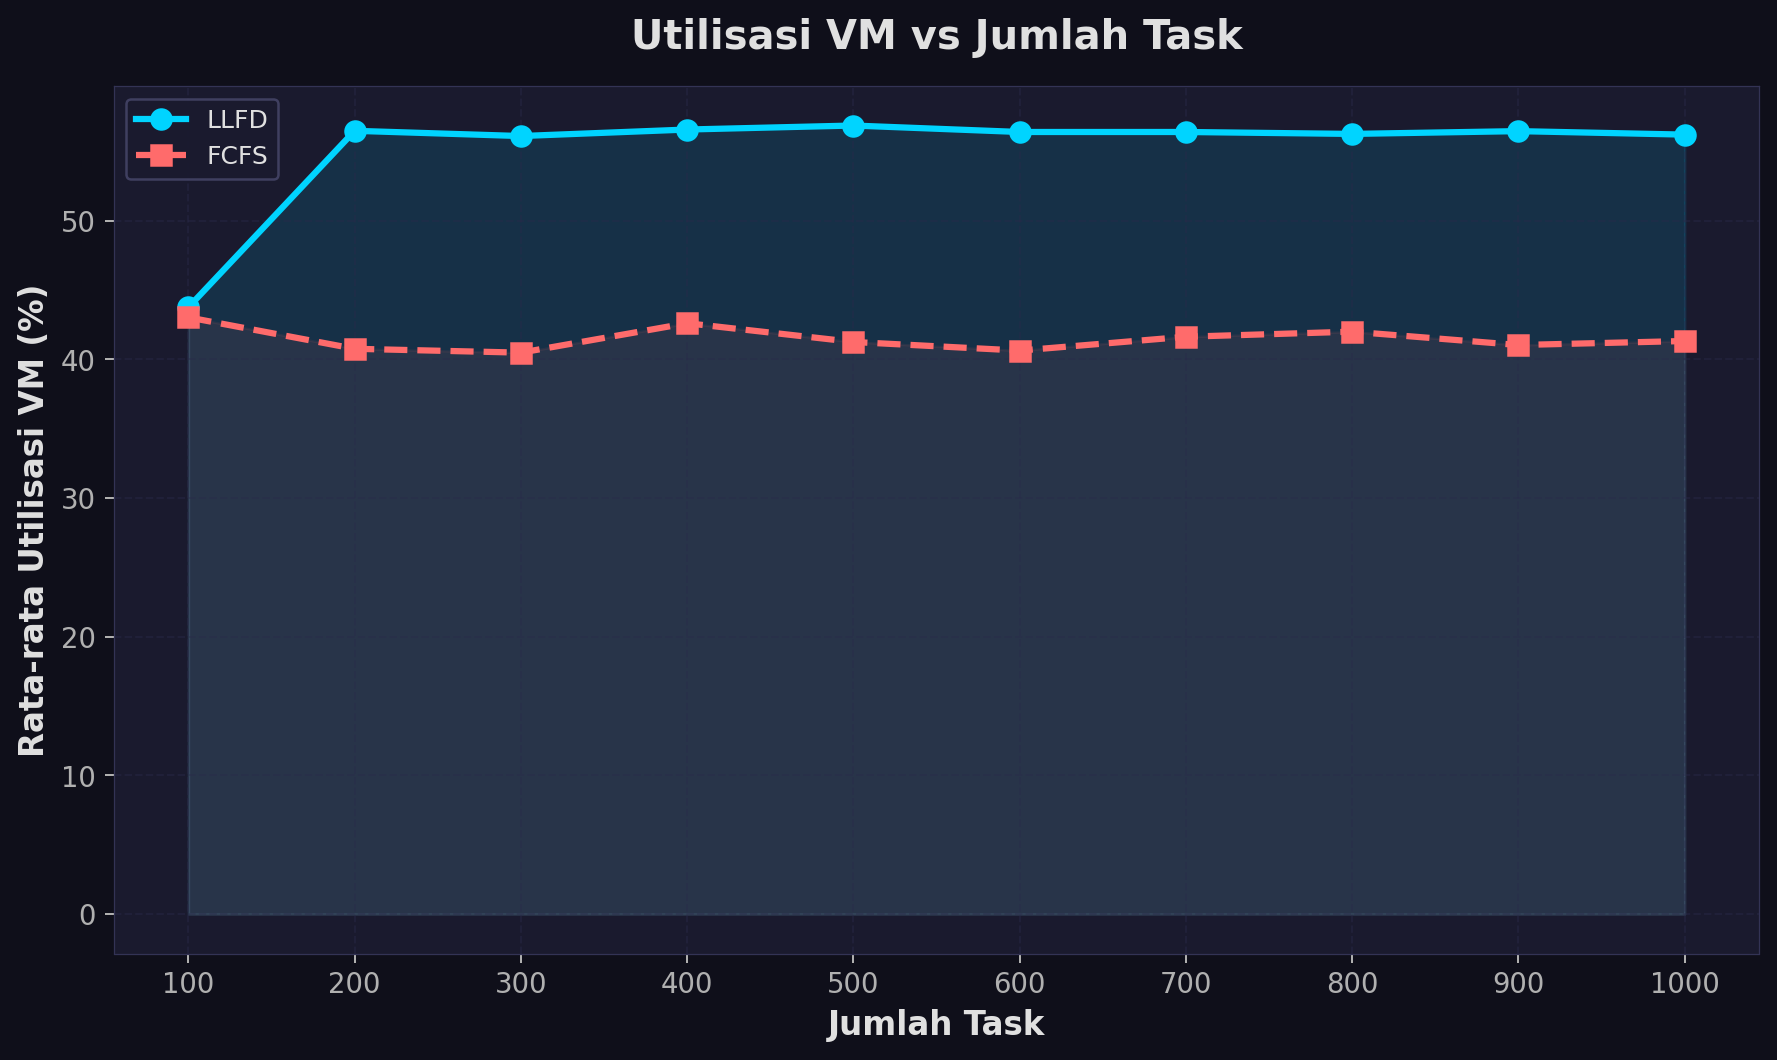
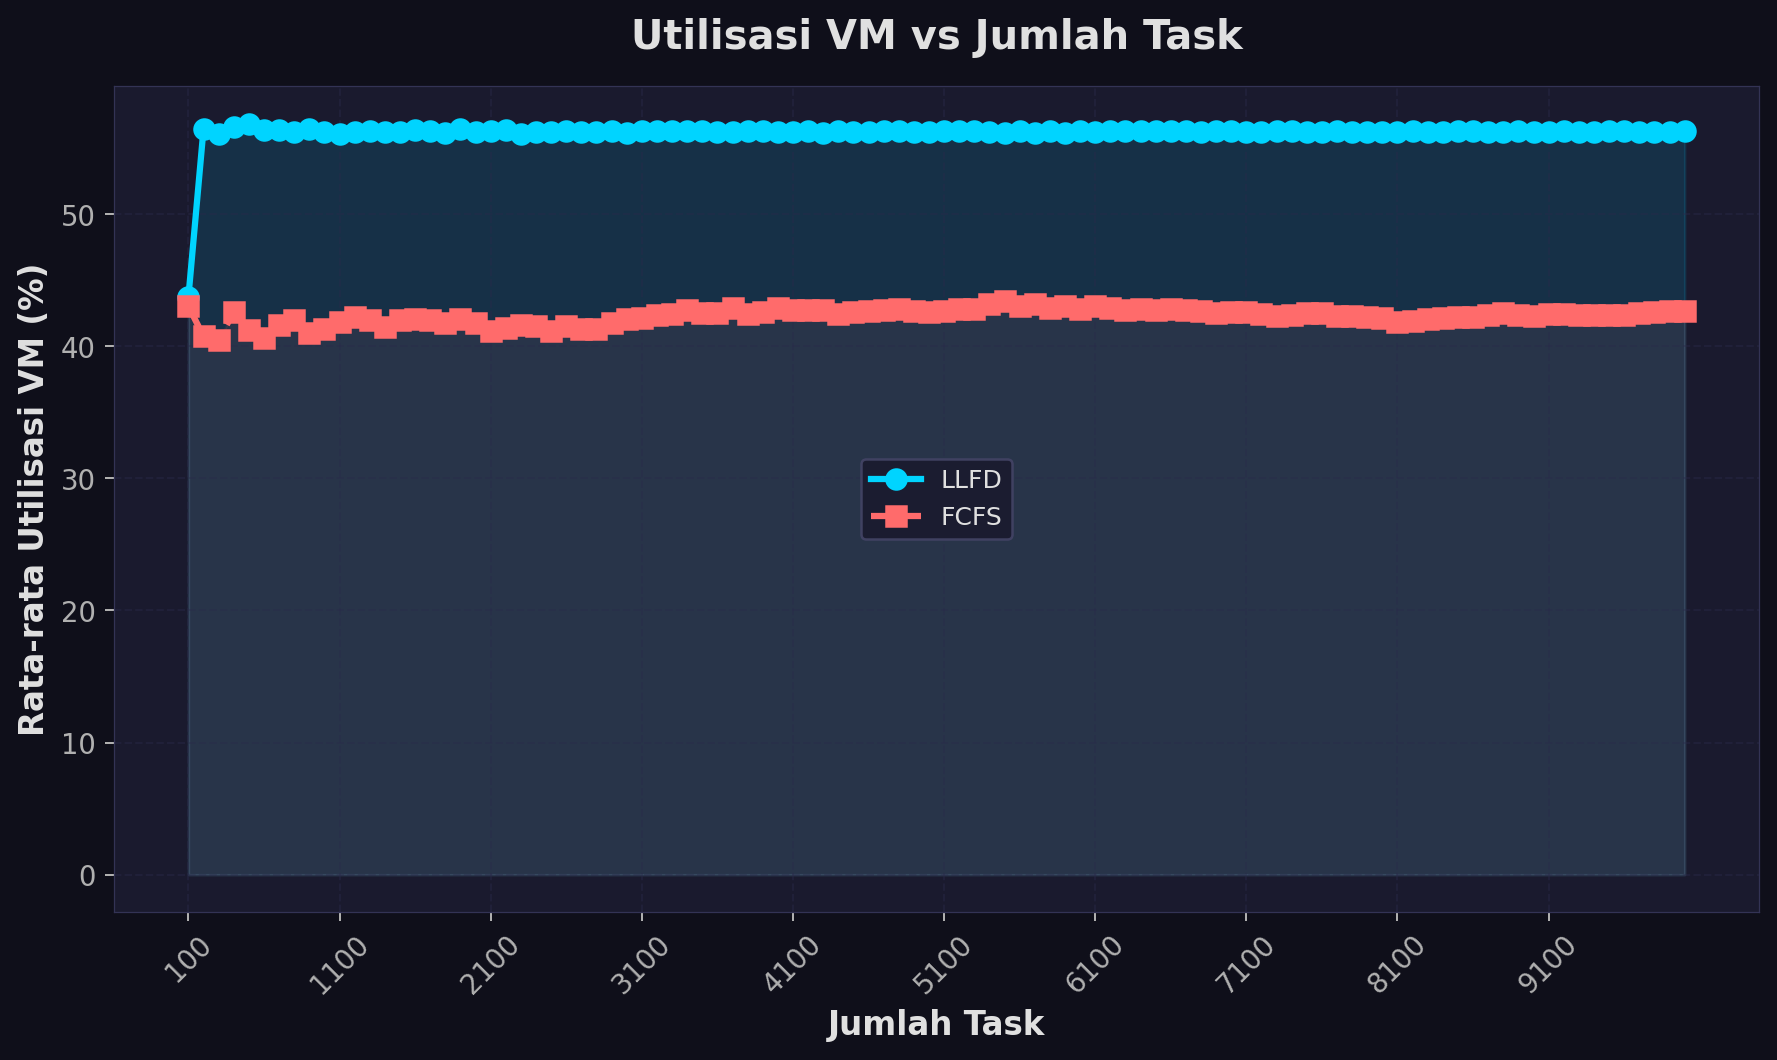
Update scalability experiment to run up to 10000 tasks and refresh result graphs

diff --git a/run_scalability_experiment.py b/run_scalability_experiment.py
@@ -1,11 +1,11 @@
 #!/usr/bin/env python3
 """
-Scalability Experiment: LLFD vs FCFS — Task Count 100–1000
+Scalability Experiment: LLFD vs FCFS — Task Count 100–10000
 ==========================================================
 
 Reimplements the LLFD and FCFS scheduling algorithms using the same cloud
 architecture parameters as the Java/CloudSim Plus simulator.  Generates
-datasets of varying sizes (100-1000 tasks) by resampling the original
+datasets of varying sizes (100-10000 tasks) by resampling the original
 Google Cluster Trace dataset, runs both algorithms, collects performance
 metrics, and produces comparison graphs.
 
@@ -285,7 +285,8 @@ def create_graphs(task_counts, llfd_results, fcfs_results, output_dir):
         ax.set_title(title, fontsize=16, fontweight="bold", pad=15)
         ax.legend(loc="best", framealpha=0.9)
         ax.grid(True, linestyle="--", alpha=0.4)
-        ax.set_xticks(task_counts)
+        ax.set_xticks(task_counts[::10])  # every 1000
+        ax.tick_params(axis='x', rotation=45)
 
         # Add subtle glow effect
         for spine in ax.spines.values():
@@ -299,9 +300,9 @@ def create_graphs(task_counts, llfd_results, fcfs_results, output_dir):
         print(f"  [SAVED] {fname}")
 
     # Combined 2x2 figure
-    fig, axes = plt.subplots(2, 2, figsize=(16, 12))
+    fig, axes = plt.subplots(2, 2, figsize=(18, 13))
     fig.suptitle(
-        "LLFD vs FCFS — Scalability Analysis (100–1000 Tasks)",
+        "LLFD vs FCFS — Scalability Analysis (100–10000 Tasks)",
         fontsize=18, fontweight="bold", y=0.98, color="#ffffff"
     )
 
@@ -324,7 +325,8 @@ def create_graphs(task_counts, llfd_results, fcfs_results, output_dir):
         ax.set_title(title, fontsize=13, fontweight="bold", pad=10)
         ax.legend(loc="best", framealpha=0.9)
         ax.grid(True, linestyle="--", alpha=0.4)
-        ax.set_xticks(task_counts)
+        ax.set_xticks(task_counts[::10])  # every 1000
+        ax.tick_params(axis='x', rotation=45)
 
     fig.tight_layout(rect=[0, 0, 1, 0.95])
     fname = os.path.join(output_dir, "graph_combined.png")
@@ -342,7 +344,7 @@ def create_graphs(task_counts, llfd_results, fcfs_results, output_dir):
         ("throughput", "Throughput",   "#00ff88"),
     ]
 
-    bar_width = 25
+    bar_width = 60
     x_pos = np.array(task_counts)
 
     for i, (key, label, color) in enumerate(improvement_metrics):
@@ -377,7 +379,8 @@ def create_graphs(task_counts, llfd_results, fcfs_results, output_dir):
                  fontsize=16, fontweight="bold", pad=15)
     ax.legend(loc="best", framealpha=0.9)
     ax.grid(True, axis="y", linestyle="--", alpha=0.4)
-    ax.set_xticks(task_counts)
+    ax.set_xticks(task_counts[::10])  # every 1000
+    ax.tick_params(axis='x', rotation=45)
     ax.axhline(y=0, color="#666688", linewidth=0.8)
 
     fig.tight_layout()
@@ -428,7 +431,7 @@ def main():
     print()
     print("=" * 60)
     print(" LLFD vs FCFS — Scalability Experiment")
-    print(" Task counts: 100, 200, 300, ..., 1000")
+    print(" Task counts: 100, 200, 300, ..., 10000")
     print("=" * 60)
     print()
 
@@ -439,7 +442,7 @@ def main():
     print()
 
     # 2. Run experiments
-    task_counts  = list(range(100, 1001, 100))  # 100, 200, ..., 1000
+    task_counts  = list(range(100, 10001, 100))  # 100, 200, ..., 10000
     llfd_results = []
     fcfs_results = []
 
